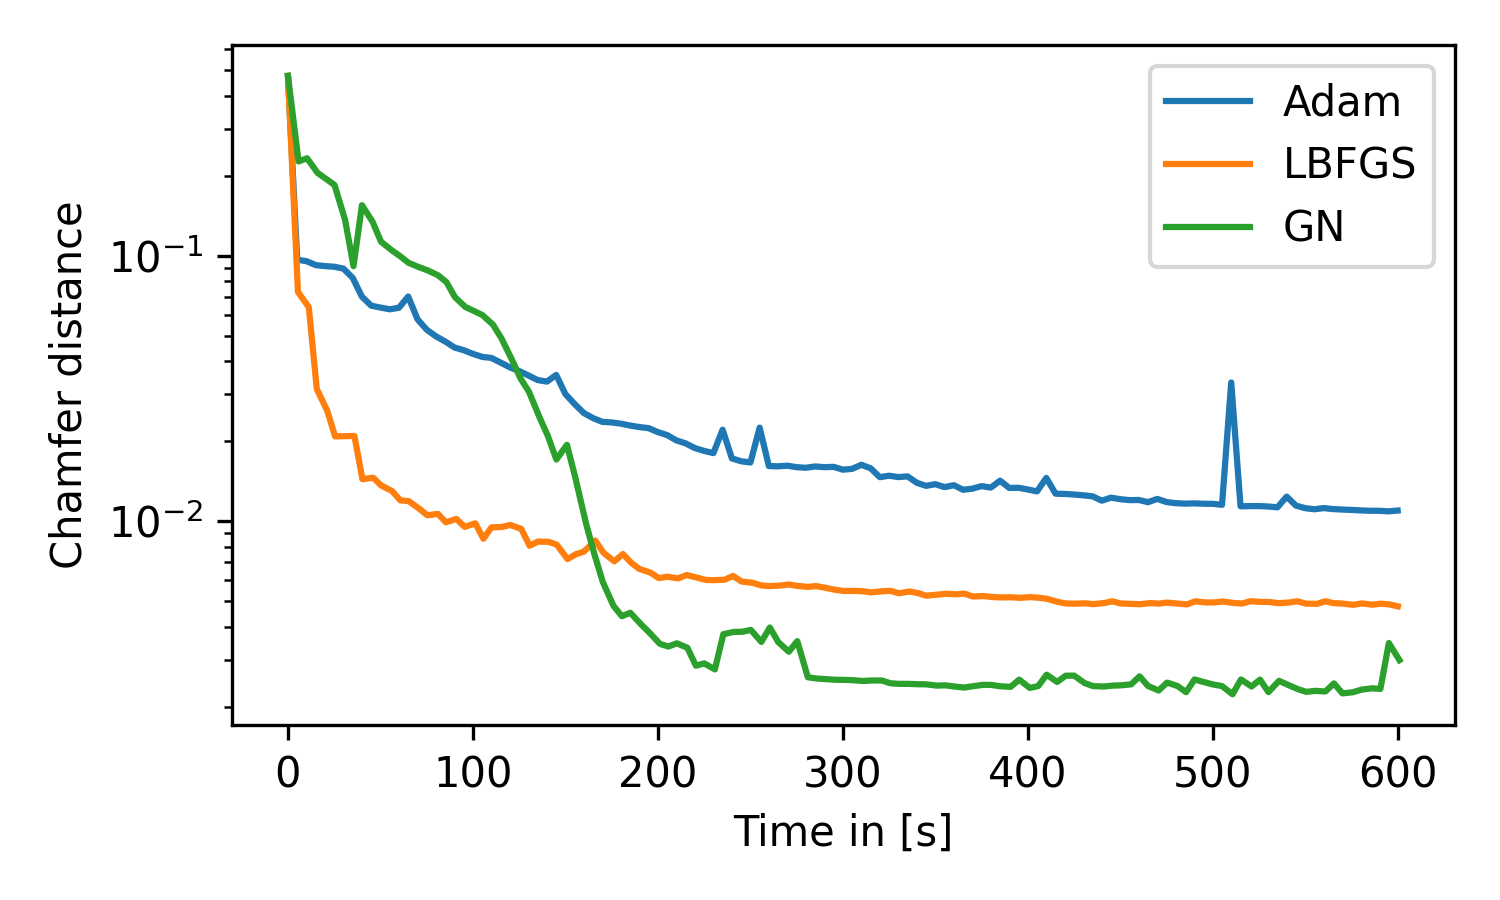
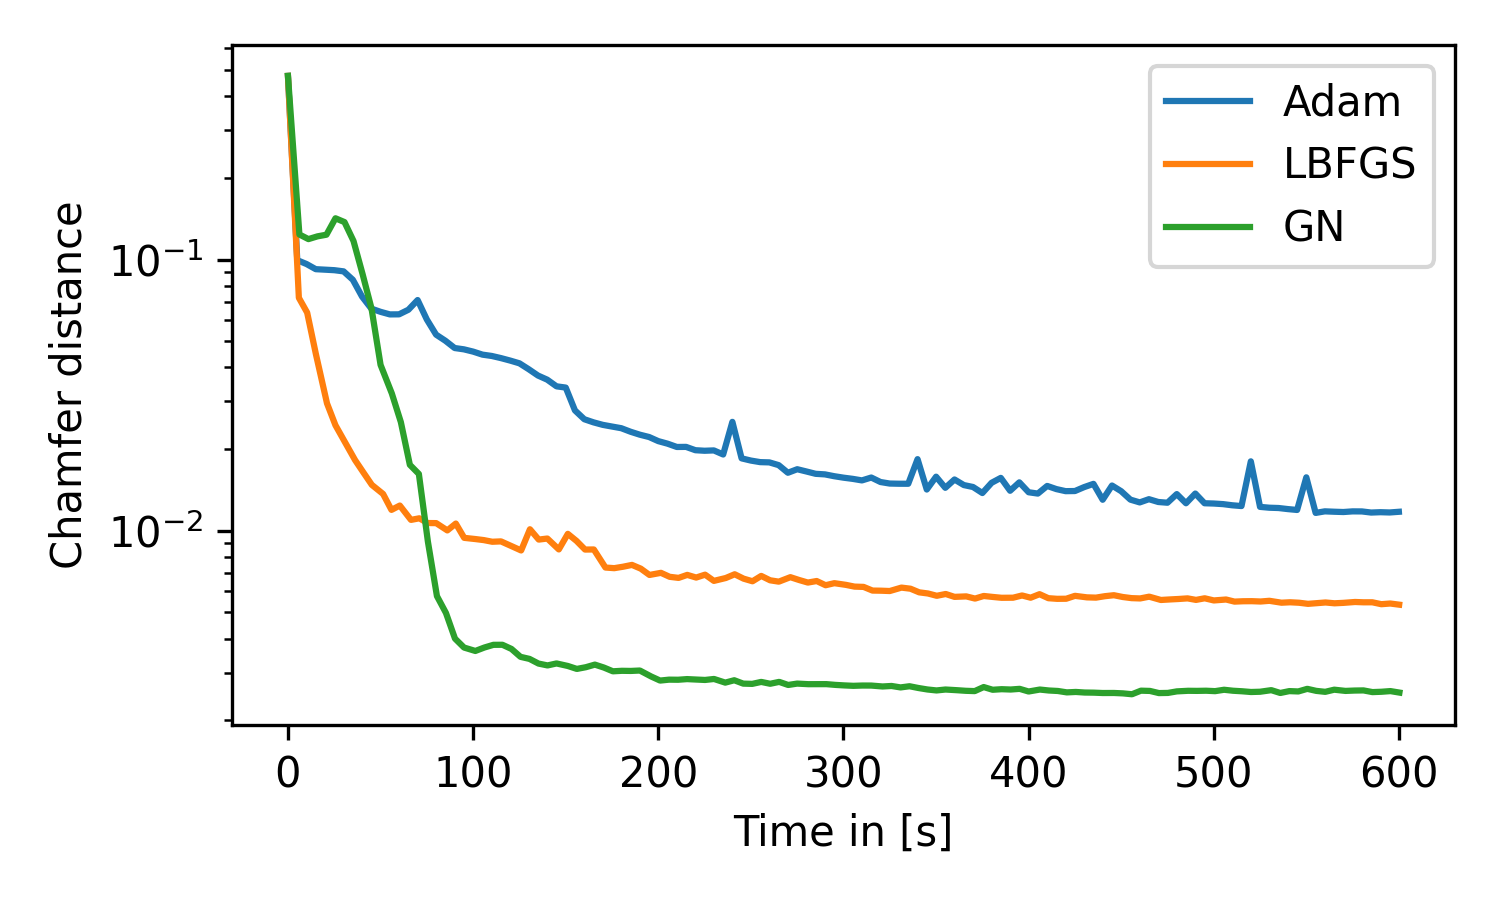
Increase bunny eikonal count to match rockerarm density

diff --git a/experiments/tasks/implicit_shape.py b/experiments/tasks/implicit_shape.py
@@ -173,9 +173,8 @@ class RockerArm(ImplicitShapeTask):
 
 
 class Bunny(ImplicitShapeTask):
-    """Settings of commit 477423d, which produced the stored GN curve of Figure 5: 5000 eikonal points and GaussNewton's line search."""
     mesh_file = "bun_zipper.ply"
-    n_eikonal = 5000
+    n_eikonal = 10000
     gn_class = GaussNewton
     paper_data = "notebooks/Data Bunny/{}_over_time_bunny_{}.pth"
     heatmap = dict(elevation=10, azimuth=0, gap=0.05, rotate=[("x", 90)])  ## Figure 5a: the mesh has y up
